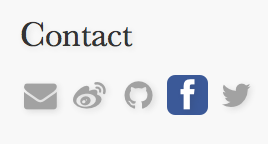
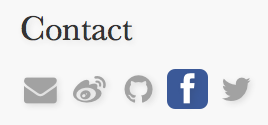
Change size of images used in social profiles article

diff --git a/content/Elegant - Pelican Theme/social-profiles-sidebar.md b/content/Elegant - Pelican Theme/social-profiles-sidebar.md
@@ -29,11 +29,11 @@ Elegant displays the widget in the sidebar. Each icon is a link to a social
 media profile with an appropriate title attribute. Icons use muted color which
 changes when user hovers over them.
 
-<img class="align-right" style="width: 134.0px; height: 72.0px;"
+<img class="align-right" style="width: 134.0px; height: 62.5px;"
 src="|filename|/images/social-profiles-sidebar-facebook.png" alt="Hover over
 Facebook icon in the sidebar" />
 
-<img class="align-right" style="width: 139.0px; height: 69.0px;"
+<img class="align-right" style="width: 134.0px; height: 62.5px;"
 src="|filename|/images/social-profiles-sidebar-twitter.png" alt="Hover over
 Twitter icon in the sidebar" />
 
